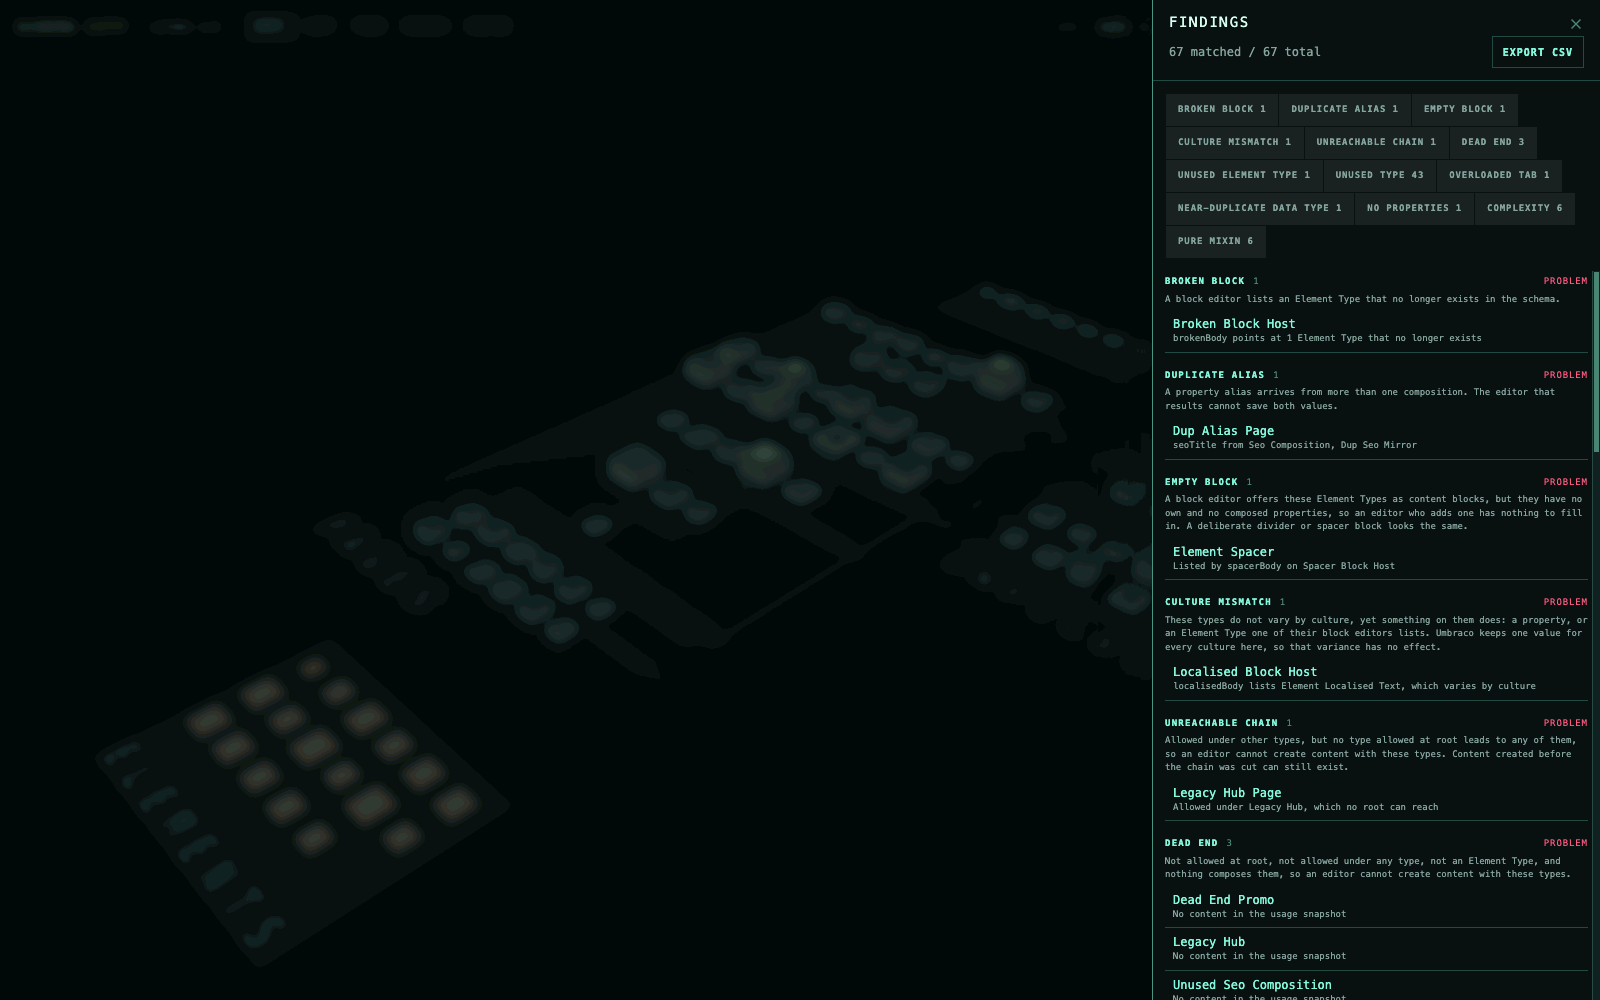
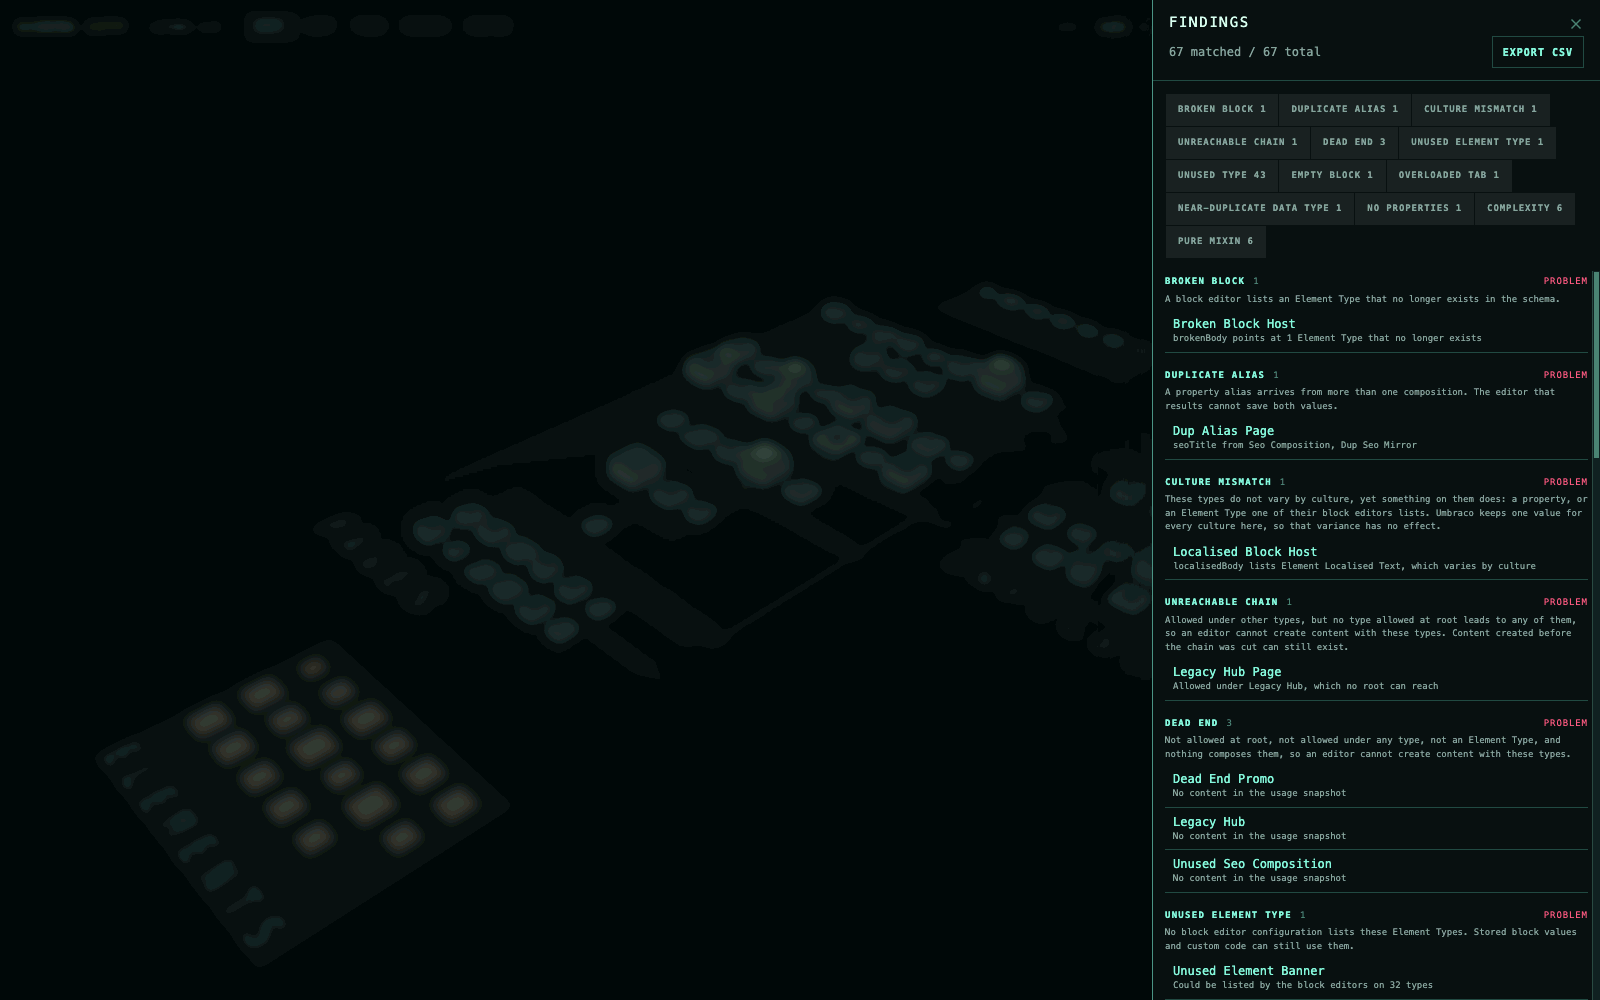
fix: report near-duplicate Data Types once per set and make empty block a note

Changed region(s): [[0.7188, 0.465, 1.0, 1.0], [0.75, 0.093, 0.9688, 0.186], [0.9688, 0.899, 1.0, 0.93]]

diff --git a/src/SchemaCity/Client/src/model/findings.ts b/src/SchemaCity/Client/src/model/findings.ts
@@ -58,12 +58,12 @@ export type Finding = {
 export const FINDING_KINDS: readonly FindingKind[] = [
   "brokenBlock",
   "duplicateAlias",
-  "emptyBlock",
   "cultureMismatch",
   "unreachableChain",
   "deadEnd",
   "unusedElementType",
   "unusedType",
+  "emptyBlock",
   "overloadedTab",
   "nearDuplicateDataType",
   "noProperties",
@@ -115,7 +115,7 @@ export const KIND_EXPLANATION: Record<FindingKind, string> = {
     "An editor can create these Document Types, but the usage snapshot counts no content of them. Custom code, migrations and external consumers can still depend on a type.",
   overloadedTab: `One tab, or one group on a type without tabs, holds more than ${TAB_LIMIT} properties. Composed properties count, merged the way the Editor view shows them.`,
   nearDuplicateDataType:
-    "Properties here use a Data Type whose name matches another Data Type once case, spaces, hyphens and underscores are ignored. The two can differ in configuration. Only Data Types that some property uses are compared.",
+    "Data Types whose names match once case, spaces, hyphens and underscores are ignored. They can differ in configuration. Each set is one row, on a type that uses the least-used of them, and the related types are every other type that uses any of them. Only own properties count, so a composed property counts on its composition.",
   noProperties: "These types have no own and no composed properties.",
   complexity: `In the highest of ${COMPLEXITY_TIERS} complexity tiers in this schema. The score is own and composed properties, plus twice the compositions, plus distinct block targets.`,
   pureMixin:
@@ -127,7 +127,7 @@ export const KIND_EXPLANATION: Record<FindingKind, string> = {
 const SEVERITY: Record<FindingKind, FindingSeverity> = {
   brokenBlock: "problem",
   duplicateAlias: "problem",
-  emptyBlock: "problem",
+  emptyBlock: "note",
   cultureMismatch: "problem",
   unreachableChain: "problem",
   deadEnd: "problem",
@@ -281,8 +281,10 @@ export function findFindings(
   const headless =
     pages.filter((node) => node.templates.length === 0).length * 2 >
     pages.length;
-  const twins = dataTypeTwins(nodes);
   const nameOf = new Map(nodes.map((node) => [node.id, node.name]));
+  const byName = (a: string, b: string) =>
+    (nameOf.get(a) ?? a).localeCompare(nameOf.get(b) ?? b);
+  const twins = dataTypeTwins(nodes, byName);
   const names = (ids: string[]) => list(ids.map((id) => nameOf.get(id) ?? id));
   // Without a report the row has nothing usage-based to add, so it says nothing.
   const content = (id: string) => {
@@ -454,16 +456,15 @@ export function findFindings(
         );
     }
 
-    const nearDuplicates = twins(node);
-    if (nearDuplicates.length > 0) {
+    const twin = twins.get(node.id);
+    if (twin)
       add(
         "nearDuplicateDataType",
         node,
-        nearDuplicates.map((twin) => twin.summary).join("; "),
-        undefined,
-        nearDuplicates.reduce((sum, twin) => sum + twin.properties, 0)
+        twin.summary,
+        twin.related,
+        twin.properties
       );
-    }
 
     const overloaded = overloadedTabs(node);
     if (overloaded.length > 0) {
@@ -606,40 +607,81 @@ const normalName = (name: string) => name.toLowerCase().replace(SEPARATORS, "");
  * properties whose Data Type shares a normalised name with another Data Type.
  * Composed properties are left to the composition, so a shared mixin is one row.
  */
-function dataTypeTwins(nodes: SchemaNode[]) {
-  const byName = new Map<string, Map<string, string>>();
-  for (const node of nodes)
-    for (const property of propertiesOf(node)) {
-      if (!property.dataTypeName) continue;
-      const key = normalName(property.dataTypeName);
-      const ids = byName.get(key) ?? new Map<string, string>();
-      ids.set(property.dataTypeId, property.dataTypeName);
-      byName.set(key, ids);
-    }
+type DataTypeUse = { name: string; properties: number; types: Set<string> };
 
-  return (node: SchemaNode) => {
-    const used = new Map<string, { aliases: string[]; ids: Set<string> }>();
+/** Own properties per Data Type, gathered under the normalised Data Type name. */
+function dataTypeSets(nodes: SchemaNode[]) {
+  const sets = new Map<string, Map<string, DataTypeUse>>();
+  for (const node of nodes)
     for (const property of propertiesOf(node)) {
       if (property.fromCompositionId || !property.dataTypeName) continue;
       const key = normalName(property.dataTypeName);
-      if ((byName.get(key)?.size ?? 0) < 2) continue;
-      const entry = used.get(key) ?? { aliases: [], ids: new Set<string>() };
-      entry.aliases.push(property.alias);
-      entry.ids.add(property.dataTypeId);
-      used.set(key, entry);
-    }
-    return [...used].map(([key, { aliases, ids }]) => {
-      const all = byName.get(key) ?? new Map<string, string>();
-      const here = [...ids].map((id) => all.get(id) ?? id);
-      const others = [...all]
-        .filter(([id]) => !ids.has(id))
-        .map(([, name]) => (here.includes(name) ? `another ${name}` : name));
-      return {
-        properties: aliases.length,
-        summary: `${list(aliases)} ${aliases.length === 1 ? "uses" : "use"} ${here.join(" and ")}${others.length > 0 ? `, next to ${others.join(" and ")}` : ""}`,
+      const set = sets.get(key) ?? new Map<string, DataTypeUse>();
+      const use = set.get(property.dataTypeId) ?? {
+        name: property.dataTypeName,
+        properties: 0,
+        types: new Set<string>(),
       };
+      use.properties++;
+      use.types.add(node.id);
+      set.set(property.dataTypeId, use);
+      sets.set(key, set);
+    }
+  return [...sets.values()].filter((set) => set.size > 1);
+}
+
+/**
+ * Sets of Data Types whose names match once normalised, keyed by the type that
+ * carries the set's row. That is a type using the least-used Data Type of the set,
+ * since the odd one out is usually the one to fold into the others. One row per set
+ * rather than per type, because a twin that most of the schema uses would otherwise
+ * put a row on nearly every type and bury the rest of the drawer. A type that
+ * anchors two sets gets one row covering both.
+ */
+function dataTypeTwins(
+  nodes: SchemaNode[],
+  byName: (a: string, b: string) => number
+) {
+  const rows = new Map<
+    string,
+    { summary: string; related: string[]; properties: number }
+  >();
+  for (const set of dataTypeSets(nodes)) {
+    const uses = [...set].sort(
+      ([, a], [, b]) =>
+        a.properties - b.properties ||
+        a.types.size - b.types.size ||
+        a.name.localeCompare(b.name)
+    );
+    const names = uses.map(([, use]) => use.name);
+    const label = ([id, use]: [string, DataTypeUse]) =>
+      names.indexOf(use.name) === names.lastIndexOf(use.name)
+        ? use.name
+        : `${use.name} (${id.slice(0, 8)})`;
+    const anchor = [...(uses[0]?.[1].types ?? [])].sort(byName)[0] ?? "";
+    const others = uses.flatMap(([, use]) => [...use.types]);
+    const before = rows.get(anchor);
+    rows.set(anchor, {
+      summary: [
+        before?.summary,
+        uses
+          .map(
+            (use) =>
+              `${label(use)}: ${plural(use[1].properties, "property", "properties")} on ${plural(use[1].types.size, "type")}`
+          )
+          .join(", "),
+      ]
+        .filter(Boolean)
+        .join("; "),
+      related: [...new Set([...(before?.related ?? []), ...others])]
+        .filter((id) => id !== anchor)
+        .sort(byName),
+      properties:
+        (before?.properties ?? 0) +
+        uses.reduce((sum, [, use]) => sum + use.properties, 0),
     });
-  };
+  }
+  return rows;
 }
 
 /**

diff --git a/src/SchemaCity/Client/src/model/findings.test.ts b/src/SchemaCity/Client/src/model/findings.test.ts
@@ -566,16 +566,14 @@ describe("findFindings, one rule at a time", () => {
         groups: [group("content", [toggle("title", "dt-3", "Textstring")])],
       }),
     ]);
-    expect(aliasesFor(graph, "nearDuplicateDataType")).toEqual([
-      "news",
-      "page",
-    ]);
-    expect(summaryOf(graph, "nearDuplicateDataType", "page")?.summary).toBe(
-      "hideInNav, hideFromSearch use SEO Toggle and Seo_Toggle"
+    // One row for the set, on page, the only type using the less-used Seo_Toggle,
+    // with news among the related types.
+    expect(aliasesFor(graph, "nearDuplicateDataType")).toEqual(["page"]);
+    const finding = summaryOf(graph, "nearDuplicateDataType", "page");
+    expect(finding?.summary).toBe(
+      "Seo_Toggle: 1 property on 1 type, SEO Toggle: 2 properties on 2 types"
     );
-    expect(summaryOf(graph, "nearDuplicateDataType", "news")?.summary).toBe(
-      "noIndex uses SEO Toggle, next to Seo_Toggle"
-    );
+    expect(finding?.related).toEqual(["news"]);
   });
 
   it("leaves one Data Type used everywhere, and composed properties, alone", () => {
@@ -600,16 +598,15 @@ describe("findFindings, one rule at a time", () => {
       ],
       [edge("composition", "page", "seo")]
     );
-    // dt-1 and dt-2 share the exact name, so page's own title is reported, while
-    // its composed metaTitle is left to seo.
-    expect(aliasesFor(graph, "nearDuplicateDataType")).toEqual([
-      "news",
-      "page",
-      "seo",
-    ]);
-    expect(summaryOf(graph, "nearDuplicateDataType", "page")?.summary).toBe(
-      "title uses Textstring, next to another Textstring"
+    // dt-1 and dt-2 share the exact name. page's composed metaTitle counts on seo,
+    // so dt-2 is the less-used one and its row sits on seo, with the key telling the
+    // two Textstrings apart.
+    expect(aliasesFor(graph, "nearDuplicateDataType")).toEqual(["seo"]);
+    const finding = summaryOf(graph, "nearDuplicateDataType", "seo");
+    expect(finding?.summary).toBe(
+      "Textstring (dt-2): 1 property on 1 type, Textstring (dt-1): 2 properties on 2 types"
     );
+    expect(finding?.related).toEqual(["news", "page"]);
     const single = graphOf([
       node("news", {
         allowedAsRoot: true,
@@ -722,12 +719,12 @@ describe("findFindings, one rule at a time", () => {
     expect(FINDING_KINDS.slice(0, 8)).toEqual([
       "brokenBlock",
       "duplicateAlias",
-      "emptyBlock",
       "cultureMismatch",
       "unreachableChain",
       "deadEnd",
       "unusedElementType",
       "unusedType",
+      "emptyBlock",
     ]);
   });
 
@@ -846,8 +843,8 @@ describe("findFindings on the seeded medium.json", () => {
  * without a report. There is no unusedElementType row on purpose: the 30 block hosts
  * between them reach all 40 Element Types.
  *
- * nearDuplicateDataType is every type with an own property on Text String, Textstring,
- * SEO Toggle or Seo Toggle, which the Data Type rotation puts on 279 of the 300.
+ * nearDuplicateDataType is one row per set: Text String with Textstring, and SEO Toggle
+ * with Seo Toggle. Per type it was 279 of the 300, which is why it is per set.
  * emptyBlock is block39, overloadedTab is editorial40,
  * and cultureMismatch is editorial05 hosting the variant block05, and root2.
  */
@@ -860,7 +857,7 @@ const PLANTED = {
   deadEnd: 18,
   unusedType: 164,
   overloadedTab: 1,
-  nearDuplicateDataType: 279,
+  nearDuplicateDataType: 2,
   noProperties: 5,
   complexity: 20,
   pureMixin: 10,

diff --git a/README.md b/README.md
@@ -109,11 +109,13 @@ headless by design, and on a type already reported as unused.
 - Unreachable chain: a type with allowed parents, none of which a root can reach.
 - Culture mismatch: an invariant type with a property that varies by culture, or with a block
   editor that lists an Element Type that varies by culture.
-- Near-duplicate Data Type: own properties on a Data Type whose name matches another one once case,
-  spaces, hyphens and underscores are ignored.
+- Near-duplicate Data Type: Data Types whose names match once case, spaces, hyphens and
+  underscores are ignored. Each set is one note, on a type that uses the least-used of them, and
+  lists every other type that uses any of them.
 - Overloaded tab: a tab, or a group on a type without tabs, with more than 20 properties, composed
   ones included.
-- Empty block: an Element Type offered as a content block that has no properties.
+- Empty block: an Element Type offered as a content block that has no properties. It is a note,
+  because a divider or spacer block is often empty on purpose.
 
 ![Findings grouped by kind with broken blocks and duplicate aliases first, each row naming its own evidence.](https://raw.githubusercontent.com/thebuilder/umbraco-schema-city/main/docs/screenshots/findings.png)
 
